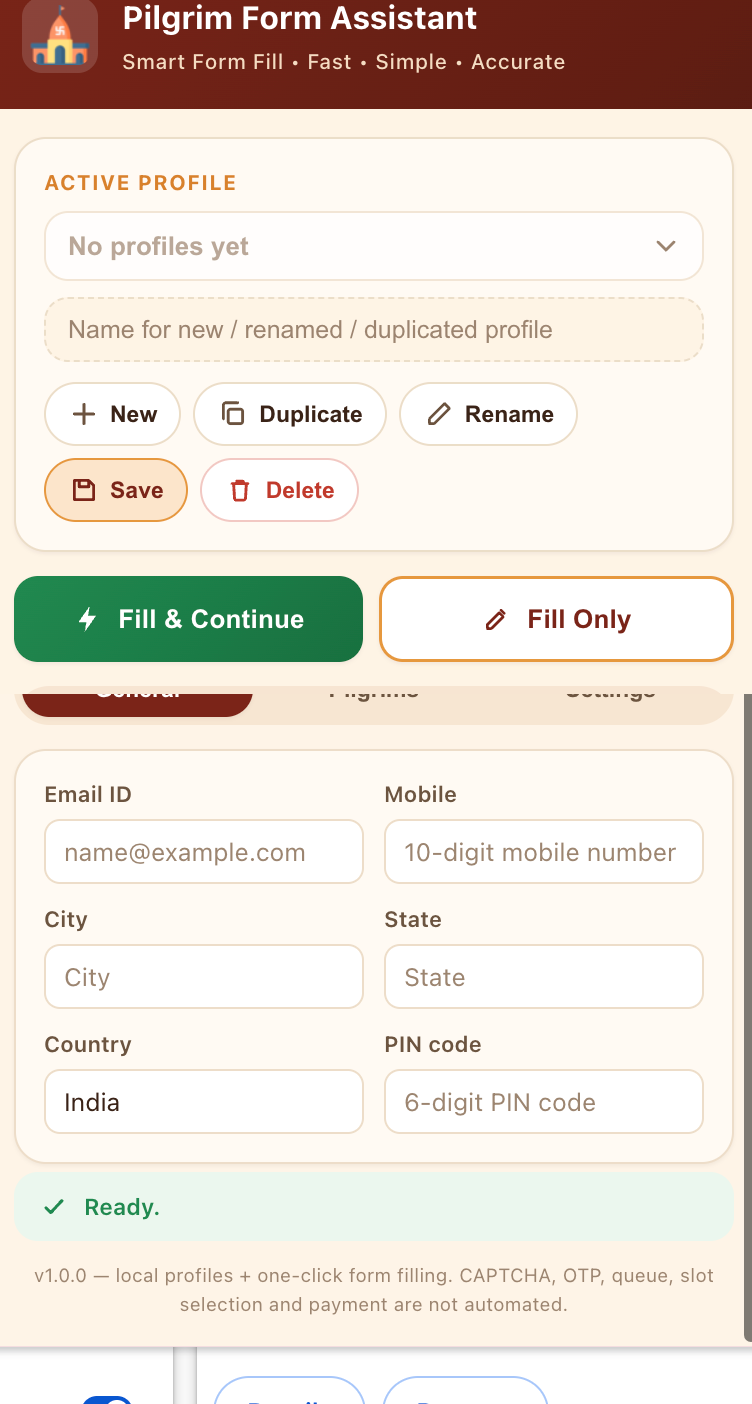
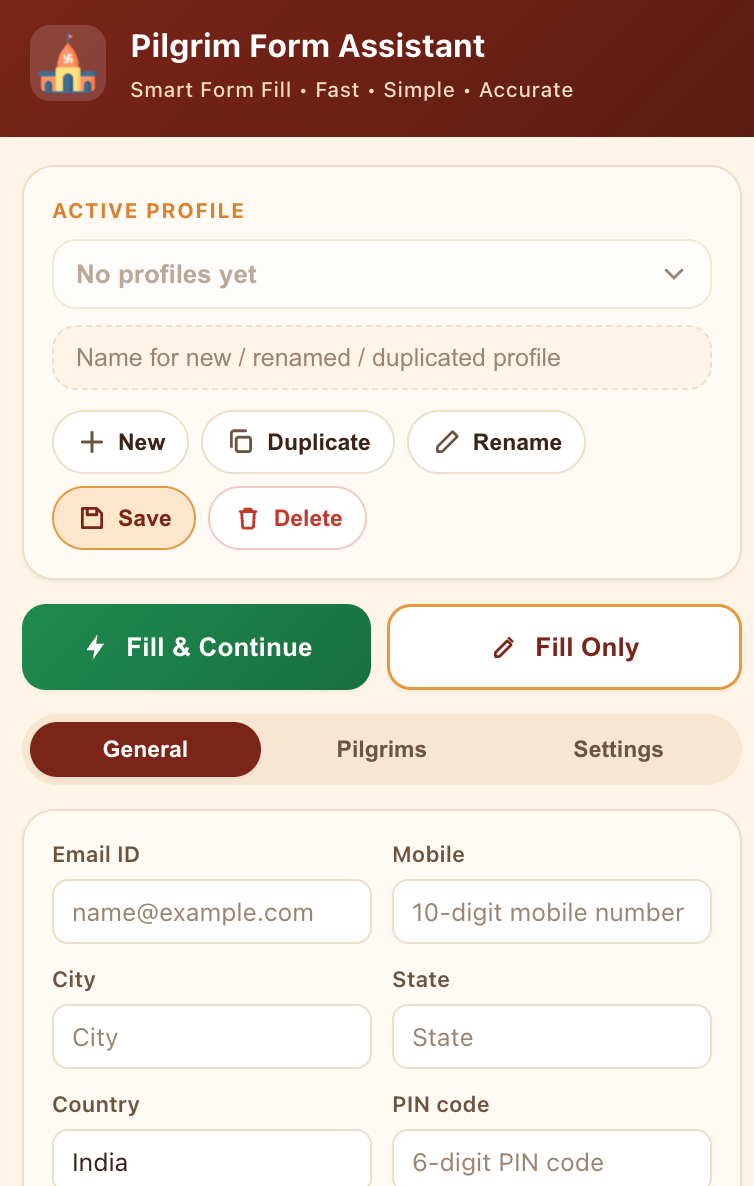
fix: update README formatting and add image table for better layout

diff --git a/README.md b/README.md
@@ -6,9 +6,15 @@ your browser and helps fill in supported TTD (Tirumala Tirupati
 Devasthanams) online registration forms in one click.
 
 **Free for everyone.** No cost, no subscription, no ads, no account
-required. Developed by **G Naganjaneyulu**.
+required. 
 
-<img src="preview/general-tab.png" alt="Pilgrim Form Assistant popup showing the General Details tab" width="360" />
+<table>
+<tr>
+<td><img src="preview/general-tab.png" alt="Pilgrim Form Assistant popup showing the General Details tab" width="260" /></td>
+<td><img src="preview/pilgrims-tab.png" alt="Pilgrim Form Assistant popup showing the Pilgrims tab" width="260" /></td>
+<td><img src="preview/settings-tab.png" alt="Pilgrim Form Assistant popup showing the Settings tab" width="260" /></td>
+</tr>
+</table>
 
 ## What it does
 
